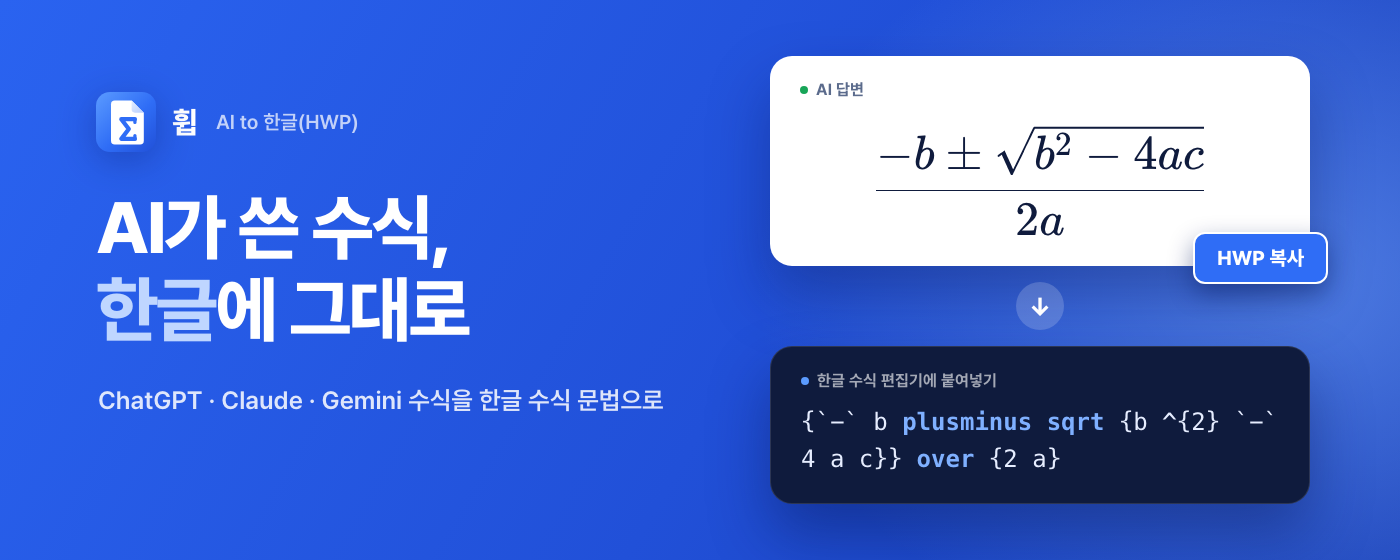
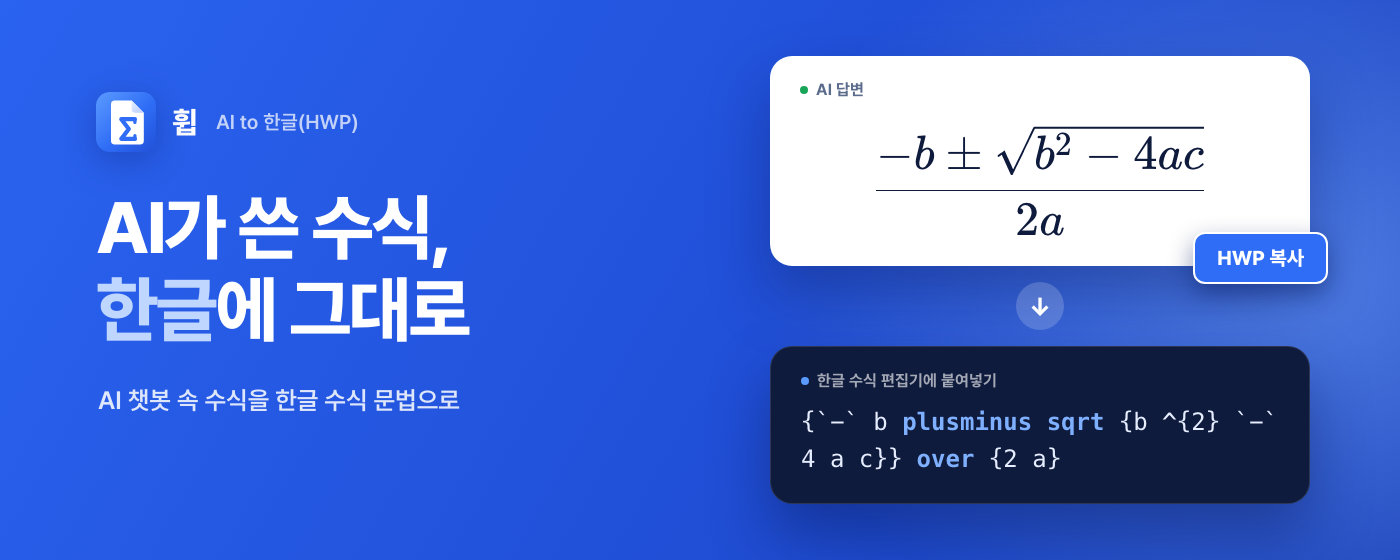
docs: 스토어 심사 반려(불필요한 키워드) 대응 — 지원 사이트 나열 제거
- 설명(한/영)에서 지원 사이트 이름 나열을 "사용 환경" 문구로 교체
- 스크린샷 5·마키 타일의 사이트 이름 나열 제거
- 붙여넣기용 순수 텍스트 설명 파일(description-ko/en.txt) 추가, listing.md 갱신

Claude-Session: https://claude.ai/code/session_017oKLNHfnYsyM5e3vhvaREr

Changed region(s): [[0.0614, 0.6982, 0.4914, 0.7589]]

diff --git a/store/src/s5.html b/store/src/s5.html
@@ -1,16 +1,11 @@
 <!doctype html><html lang="ko"><head><meta charset="utf-8"><link rel="stylesheet" href="common.css">
 <style>.grid{display:flex;flex-wrap:wrap;gap:14px;margin-top:34px}.grid .chip{font-size:22px;padding:14px 24px}
-.feat{display:flex;gap:20px;margin-top:64px}.f{flex:1;background:#fff;border:1px solid var(--line);border-radius:18px;padding:32px 32px;box-shadow:0 8px 24px rgba(33,80,216,.08)}
-.f h3{font-size:24px;font-weight:800;color:var(--blue);margin-bottom:8px}.f p{word-break:keep-all;font-size:20px;line-height:1.5;color:var(--muted);font-weight:500}</style></head><body>
-<div style="position:absolute;left:84px;top:104px;right:84px">
+.feat{display:flex;gap:20px;margin-top:72px}.f{flex:1;background:#fff;border:1px solid var(--line);border-radius:18px;padding:40px 36px;box-shadow:0 8px 24px rgba(33,80,216,.08)}
+.f h3{font-size:27px;font-weight:800;color:var(--blue);margin-bottom:8px}.f p{word-break:keep-all;font-size:20px;line-height:1.5;color:var(--muted);font-weight:500}</style></head><body>
+<div style="position:absolute;left:84px;top:170px;right:84px">
   <div class="brand"><img src="icon.svg">휩</div>
-  <h1>쓰던 AI 사이트에서 <em>그대로</em> 동작해요</h1>
-  <p class="sub">별도 설정 없이 지원 사이트에 자동으로 적용됩니다.</p>
-  <div class="grid">
-    <span class="chip">ChatGPT</span><span class="chip">Claude</span><span class="chip">Gemini</span><span class="chip">Google AI Studio</span>
-    <span class="chip">Perplexity</span><span class="chip">Grok</span><span class="chip">DeepSeek</span><span class="chip">Poe</span>
-    <span class="chip">Mistral</span><span class="chip">외 다수</span>
-  </div>
+  <h1>쓰던 AI 챗봇에서 <em>그대로</em> 동작해요</h1>
+  <p class="sub">별도 설정 없이 자동으로 적용됩니다. 자동 지원되지 않는 페이지는 팝업에서 직접 켤 수 있어요.</p>
   <div class="feat">
     <div class="f"><h3>수식 호버 복사</h3><p>수식 위에 마우스를 올려 <b>HWP 복사</b> 버튼 한 번.</p></div>
     <div class="f"><h3>보고서 → HWPX</h3><p>긴 답변은 제목·표·수식까지 한글 문서로.</p></div>

diff --git a/store/src/promo-marquee.html b/store/src/promo-marquee.html
@@ -29,7 +29,7 @@ p.sub{position:absolute;left:98px;top:382px;font-size:25px;line-height:1.5;font-
 </style></head><body>
 <div class="logo"><img src="icon.svg">휩<small>AI to 한글(HWP)</small></div>
 <h1>AI가 쓴 수식,<br><em>한글</em>에 그대로</h1>
-<p class="sub">ChatGPT · Claude · Gemini 수식을 한글 수식 문법으로</p>
+<p class="sub">AI 챗봇 속 수식을 한글 수식 문법으로</p>
 
 <div class="ai"><div class="lbl"><i></i>AI 답변</div><div class="eq" id="eq"></div><div class="copy">HWP 복사</div></div>
 <div class="arrow">↓</div>

diff --git a/store/listing.md b/store/listing.md
@@ -10,39 +10,10 @@
 - 한국어: `AI 사이트 수식에 마우스 올리면 한글(HWP) 수식 문법으로 변환·복사. 긴 AI 보고서 답변은 감지해 HWPX 문서로 바로 변환합니다.`
 - English: `Hover over math on AI sites to copy it as HWP equation syntax. Turn long AI answers into HWPX documents in one click.`  ← `_locales/en` 에서 자동 반영됨
 
-## 자세한 설명 (한국어)
-```
-ChatGPT, Claude, Gemini 같은 AI가 알려준 수식을 한글(HWP)에 붙여넣으면 깨지나요?
-휩은 AI 답변 속 LaTeX 수식을 한글 수식 편집기 문법으로 바꿔 줍니다.
-
-■ 수식 호버 복사
-AI 답변의 수식 위에 마우스를 올리면 "HWP 복사" 버튼이 나타납니다. 한 번 클릭하면 한글 수식 편집기에 바로 붙여넣을 수 있는 형태로 변환해 클립보드에 복사합니다. 렌더된 화면을 긁어 복사할 때 사라지는 위·아래 첨자 정보도 원본 LaTeX에서 읽어 오므로 손실이 없습니다.
-
-■ 긴 답변 → HWPX 문서
-제목이 2개 이상이거나 긴 보고서형 답변 아래에 "hwpx파일로" 버튼이 나타납니다. 누르면 사이드패널이 열려 글꼴, 글자 크기, 파일명을 정하고 A4 미리보기(수식 렌더링 포함)를 확인한 뒤 .hwpx 파일로 다운로드할 수 있습니다. 제목·목록·표·코드 블록·수식 서식이 유지됩니다.
-
-■ 수동 변환 팝업
-확장 아이콘을 눌러 LaTeX를 직접 입력하면 한글 수식으로 자동 변환됩니다.
-
-■ 지원 사이트
-ChatGPT, Claude, Gemini, Google AI Studio, Perplexity, Grok, DeepSeek, Poe, Mistral 등. 목록에 없는 페이지는 확장 팝업의 "이 페이지에서 켜기"로 직접 활성화할 수 있습니다.
-
-■ 참고
-- 호버 복사와 보고서 변환은 팝업 설정에서 각각 켜고 끌 수 있습니다.
-- 웹 버전(붙여넣기·이미지 OCR·파일 변환)도 제공됩니다: https://hwip.vercel.app
-```
-
-## Detailed description (English)
-```
-Pasting math from ChatGPT, Claude or Gemini into HWP breaks it, because LaTeX and the HWP equation editor use different syntax. Hwip converts it for you.
-
-* Hover to copy: hover over any equation in an AI answer and click "Copy HWP" to copy it as HWP equation-editor syntax. The original LaTeX is read from the page, so sub/superscripts are never lost.
-* Long answers to HWPX: a button appears under report-style answers. Pick a font, size and file name, check an A4 preview (math rendered), and download a .hwpx document with headings, lists, tables, code blocks and equations preserved.
-* Manual popup: type LaTeX into the toolbar popup and get HWP equation syntax instantly.
-* Works on ChatGPT, Claude, Gemini, Google AI Studio, Perplexity, Grok, DeepSeek, Poe, Mistral and more. Enable any other page from the popup.
-
-Web version (paste, image OCR, file conversion): https://hwip.vercel.app
-```
+## 자세한 설명 (대시보드 "설명" 칸에 붙여넣을 텍스트)
+설명란은 마크다운이 아닌 일반 텍스트다. 아래 파일 내용을 **그대로 전체 선택·복사**해서 붙여넣는다.
+- 한국어(기본 언어): `store/description-ko.txt`
+- English(언어 추가 후 영어 칸): `store/description-en.txt`
 
 ## 카테고리 / 언어
 - 카테고리: 생산성 (Productivity)
